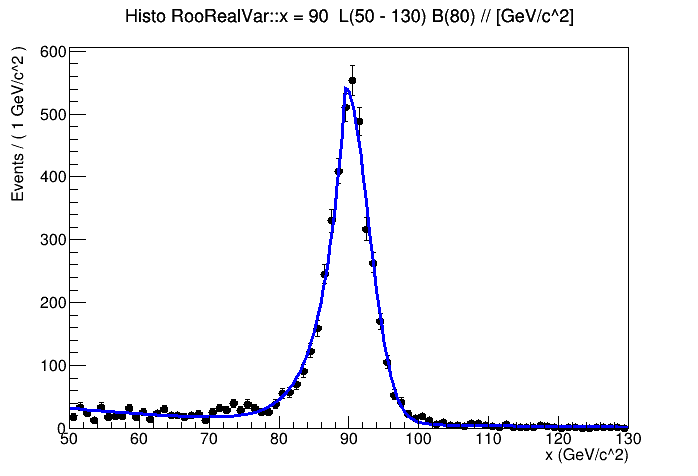
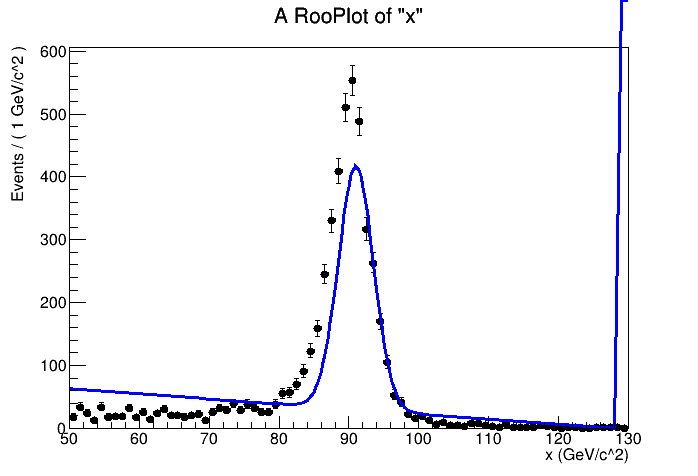
attempts to build a composite fit (signal+bkg)

diff --git a/import_functions.py b/import_functions.py
@@ -75,9 +75,10 @@ if __name__ == '__main__':
     histo_fail = f.fail_mu_RunGtoH
 
     dh, x, n_events = import_histo(histo_pass, [1], [1])
-    # c = ROOT.TCanvas()
-    # c.cd()
-    '''
+    
+    c = ROOT.TCanvas()
+    c.cd()
+   
     # a = ROOT.RooRealVar("a", "a", 90, 80, 100)
     mean = ROOT.RooRealVar("b", "b", 91, 80, 100)
     sigma = ROOT.RooRealVar("c", "c", 2, 0.1, 10)
@@ -85,18 +86,39 @@ if __name__ == '__main__':
     n1 = ROOT.RooRealVar("e", "e", 1, -5, 5)
     a2 = ROOT.RooRealVar("f", "f", 1.5, 0, 3)
     n2 = ROOT.RooRealVar("g", "g", 1, 5, 5)
-    '''
-
+   
+    cb_shape = ROOT.RooCBShape("cb", "cb", x, mean, sigma, a1, n1)
     
     tau = ROOT.RooRealVar("tau", "tau", -0.5, -1, 1)
-
-    cb_func = init_CrystalBall(x)
     expo = ROOT.RooExponential("expo", "expo", x, tau)
-    res = cb_func.fitTo(dh, Save=True)
-    '''
-    func3 = ROOT.RooVoigtian("CB", "CB", x, mean, a1, sigma) 
-    func3.fitTo(dh)
-    makeAndSavePlot(x, dh, func3, name="provafit_voigtian.png")
-    '''
+
+    gamma = roodouble(1, 0.5, 3)
+    voigt = ROOT.RooVoigtian("voigt", "voigt", x, mean, gamma, sigma)
+
+    mean = ROOT.RooRealVar("mean", "mean", 91, 85, 97)
+    sigma = ROOT.RooRealVar("sigma", "sigma", 0.1, 5)
+    gauss = ROOT.RooGaussian("gauss", "gauss", x, mean, sigma)
+    
+    a2 = ROOT.RooRealVar("a2", "a2", -10, 10)
+    a3 = ROOT.RooRealVar("a3", "a3", -10, 10)
+    pol = ROOT.RooPolynomial("pol", "pol", x, [a2, a3])
+
+
+    Nsig = ROOT.RooRealVar("nsig", "#signal events", 0, n_events)
+    Nbkg = ROOT.RooRealVar("nbkg", "#background events", 0, n_events)
+    sum_func = ROOT.RooAddPdf("sum", "sum", [gauss, pol], [Nsig, Nbkg])
+
+    res = sum_func.fitTo(dh, Save=True)
+    
+    frame = x.frame("Titolo")
+    sum_func.plotOn(frame, Components={expo}, LineStyle=':')
+    dh.plotOn(frame)
+    sum_func.plotOn(frame)
+    frame.Draw()
+    c.SaveAs("provafit_composite.png")
+
+
+    # makeAndSavePlot(x, dh, sum_func, name="provafit_voigtian.png")
+    
     # total_func = fit_composite(x, dh, cb_func, expo, n_events) 
     # makeAndSavePlot(x, dh, total_func, name="provafit_composite.png")

diff --git a/utilities.py b/utilities.py
@@ -11,17 +11,15 @@ def makeGaussianHisto():
     return hh
 
 
-def makeAndSavePlot(axis, histo, *functions, name='prova.png', title="Histo"):
+def makeAndSavePlot(axis, histo, function, name='prova.png', title="Histo"):
     c = ROOT.TCanvas()
     c.cd()
-    func_list = []
-    [func_list.append(func) for func in functions]
-    sum = ROOT.RooAddPdf("pdf", "pdf", func_list, [0.5])
     frame = axis.frame(Title=title+' '+str(axis))
+    for comp in function.getComponents():
+        print(comp.GetName())
+        function.plotOn(frame, Components={comp}, LineStyle=':')
     histo.plotOn(frame)
-    for func in functions:
-        func.plotOn(frame)
-    sum.plotOn(frame)
+    function.plotOn(frame)
     frame.Draw()
     c.SaveAs(name)
 
@@ -60,18 +58,25 @@ if __name__ == '__main__':
 
     zmin = histo_pass.GetZaxis().GetXmin()
     zmax = histo_pass.GetZaxis().GetNbins()
+    
+    c = ROOT.TCanvas()
+    c.cd()
 
     x = roodouble(91, 50, 130)
-
+    frame = x.frame(Title='prova')
     histo = makeGaussianHisto()
 
     dh = ROOT.RooDataHist("dh", "dh", [x], Import=histo)
 
     mean = ROOT.RooRealVar("mean", "mean", 91, 85, 97)
     sigma = ROOT.RooRealVar("sigma", "sigma", 0.1, 5)
-    gauss = ROOT.RooGaussian("gauss", "gauss", x, mean, sigma)
+    gauss_1 = ROOT.RooGaussian("gauss", "gauss", x, mean, sigma)
     
-    # gauss = init_Gaussian(x)    
-    gauss.fitTo(dh)
 
-    makeAndSavePlot(x, dh, gauss)
+    function.plotOn(frame, Components={comp}, LineStyle=':')
+    histo.plotOn(frame)
+    function.plotOn(frame)
+    frame.Draw()
+    c.SaveAs(name)
+
+    # makeAndSavePlot(x, dh, gauss_1)
